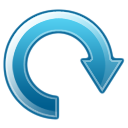
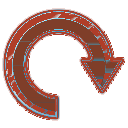
Restyle all the things

diff --git a/app/css/app.css b/app/css/app.css
@@ -44,7 +44,7 @@ body{
 
 .company_selected{
     font-size: 22px;
-    color: blue;
+    color: #623828;
     margin-left: 20px;
     height:50px;
 }
@@ -102,7 +102,7 @@ div.status.maybe{
 }
 
 .reserve:hover{
-    background-color:steelblue;
+    background-color:#222222;
 }
 
 .floatingTile {
@@ -153,16 +153,16 @@ div.status.maybe{
 }
 
 .selectedTile{
-    -webkit-box-shadow:0px 12px 15px rgba(11, 11, 11, 0.4), 0 0 20px rgba(0, 0, 0, 0.7) inset;
-    -moz-box-shadow:0px 12px 15px rgba(11, 11, 11, 0.4), 0 0 20px rgba(0, 0, 0, 0.7) inset;
-    box-shadow:0px 12px 15px  rgba(11, 11, 11, 0.4), 0 0 20px rgba(0, 0, 11, 0.7) inset;
+    -webkit-box-shadow:0px 12px 15px rgba(11, 11, 11, 0.4), 0 0 10px rgba(120, 120, 120, 1) inset;
+    -moz-box-shadow:0px 12px 15px rgba(11, 11, 11, 0.4), 0 0 10px rgba(120, 120, 120, 1) inset;
+    box-shadow:0px 12px 15px  rgba(11, 11, 11, 0.4), 0 0 10px rgba(120, 120, 120, 1) inset;
 
     -webkit-transform: scale(1.3);
     -moz-transform: scale(1.3);
     -ms-transform: scale(1.3);
     color:white;
     color:white;
-    background-color: steelblue;
+    background-color: #000000;
     font-weight: 400;
     -webkit-animation-timing-function: ease-in-out;
     -moz-animation-timing-function: ease-in-out;
@@ -334,7 +334,8 @@ div label.day{
     width: 100px;
     display: inline;
     color: #623828;
-    font-weight: 400;
+    border-bottom: solid #623828 1px;
+    font-weight: 900;
 }
 
 .add-attendee-input{
@@ -626,7 +627,7 @@ input:selection{
 .timeIndicator {
     width: 50px;
     color: #623828;
-    font-weight: 700;
+    font-weight: 300;
     height: 0px;
     position: absolute;
     cursor: pointer;
@@ -637,11 +638,12 @@ input:selection{
 
 .timeIndicator:hover{
     font-weight: 900;
+    font-size: 18px;
 }
 
 .date-controls{
     width:600px;
-    height: 200px;
+    height: 100px;
 }
 
 /* ---------- month styles ------------- */

diff --git a/app/index.html b/app/index.html
@@ -99,7 +99,7 @@
            </div>
 
      <div class="attendees {{NavModel.selectedReservation | reservationState}}">
-       <h3 class="attendees-header">Attendees:</h3>
+       <h3 class="attendees-header">Attendees</h3>
        <div class="company_selected">{{NavModel.selectedReservation.company}}</div>
        <div class="attendee-icon-alt" style="margin-top: -86px; margin-right: 20px"></div>
        <div class=attendee-icon ng-click="addAttendee(attendee)"></div>

diff --git a/app/css/month-selector.css b/app/css/month-selector.css
@@ -18,7 +18,7 @@
 #shape {
     position: relative;
     margin: 0 auto;
-    height: 200px;
+    height:53px;
     width: 200px;
     -webkit-transform-style: preserve-3d;
     animation-play-state: paused;
